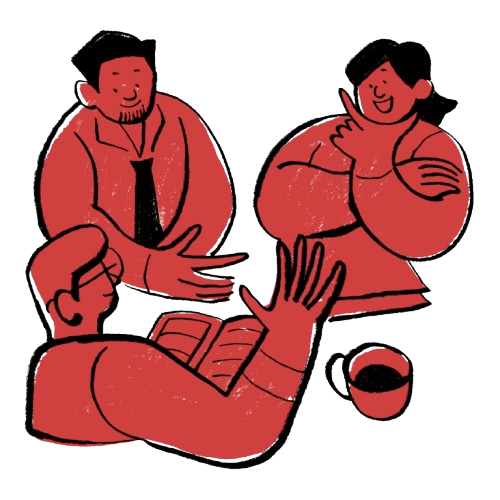
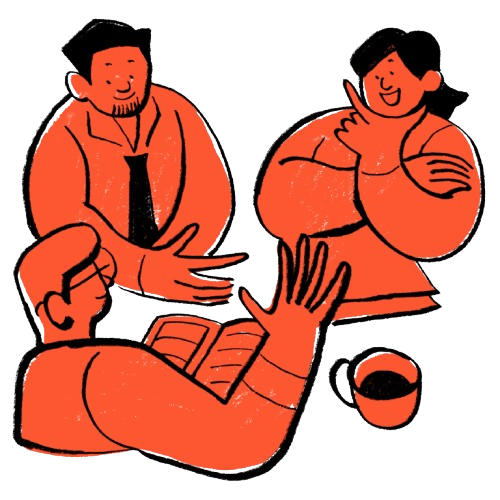
Signup screen redesigned

diff --git a/frontend/src/screens/Signup/Signup.jsx b/frontend/src/screens/Signup/Signup.jsx
@@ -2,6 +2,7 @@ import { useState, useEffect } from 'react';
 import { useDispatch, useSelector } from 'react-redux';
 import { register } from '../../redux/actions/authActions';
 import { useNavigate } from 'react-router-dom';
+import './Signup.css'
 
 
 function SignupPage() {
@@ -38,11 +39,10 @@ function SignupPage() {
 
     return (
         <>
-        <div className='signup-body'>
-            <main style={{flex: 1, display: 'flex', justifyContent: 'center', alignItems: 'center', padding: '2rem'}}>
-                <div style={{maxWidth: '550px', width: '100%', backgroundColor: '#fcd87e', border: '1px solid #e0e0e0', borderRadius: '8px', boxShadow: '0 2px 4px rgba(0, 0, 0, 0.1)', padding: '4rem'}}>
-                    <h2 style={{textAlign: 'center', marginBottom: '2rem', color: '#ce4636', fontSize: '1.8rem', fontFamily: 'Libre Baskerville, serif', fontStyle: 'italic'}}>Create Account</h2>
-                    <form onSubmit={handleSignup} style={{display: 'flex', flexDirection: 'column', gap: '1.5rem'}}>
+        <div className="signup-body">
+                <div className="signup-left">
+                    <h2 className="signup-title">Create Account</h2>
+                    <form onSubmit={handleSignup}>
                         <input 
                             type="text"
                             className="form-control"
@@ -50,7 +50,6 @@ function SignupPage() {
                             value={username}
                             onChange={(e) => setUsername(e.target.value)}
                             required
-                            style={{padding: '0.75rem 1.5rem', border: '2px solid #d1d5db', borderRadius: '50px', boxShadow: '0 2px 4px rgba(0, 0, 0, 0.1)', width: '100%', boxSizing: 'border-box', fontFamily: 'Libre Baskerville, serif', fontStyle: 'italic'}}
                         />
 
                         <input 
@@ -60,10 +59,9 @@ function SignupPage() {
                             value={email}
                             onChange={(e) => setEmail(e.target.value)}
                             required
-                            style={{padding: '0.75rem 1.5rem', border: '2px solid #d1d5db', borderRadius: '50px', boxShadow: '0 2px 4px rgba(0, 0, 0, 0.1)', width: '100%', boxSizing: 'border-box', fontFamily: 'Libre Baskerville, serif', fontStyle: 'italic'}}
                         />
 
-                        <div style={{position: 'relative', width: '100%'}}>
+                        <div>
                             <input 
                                 type={showPassword ? 'text' : 'password'}
                                 className="form-control"
@@ -71,29 +69,18 @@ function SignupPage() {
                                 value={password}
                                 onChange={(e) => setPassword(e.target.value)}
                                 required
-                                style={{padding: '0.75rem 1.5rem', border: '2px solid #d1d5db', borderRadius:'50px', boxShadow: '0 2px 4px rgba(0, 0, 0, 0.1)', paddingRight: '3rem', width: '100%', boxSizing: 'border-box', fontFamily: 'Libre Baskerville, serif', fontStyle: 'italic'}}
                             />
 
                             <button
+                                className="reveal"
                                 type="button"
                                 onClick={() => setShowPassword(!showPassword)}
-                                style={{
-                                    position: 'absolute',
-                                    right: '1rem',
-                                    top: '50%',
-                                    transform: 'translateY(-50%)',
-                                    background: 'none',
-                                    border: 'none',
-                                    cursor: 'pointer',
-                                    fontSize: '1.2rem',
-                                    color: '#6b7280',
-                                }}
                             >
                                 {showPassword ? '👀' : '🔍'}
                             </button>
                         </div>
 
-                        <div style={{position: 'relative', width: '100%'}}>
+                        <div>
                             <input 
                                 type={showConfirmPassword ? 'text' : 'password'}
                                 className="form-control"
@@ -101,69 +88,39 @@ function SignupPage() {
                                 value={confirmPassword}
                                 onChange={(e) => setConfirmPassword(e.target.value)}
                                 required
-                                style={{padding: '0.75rem 1.5rem', border: '2px solid #did5db', borderRadius: '50px', boxShadow: '0 2px 4px rgba(0, 0, 0, 0.1)', paddingRight: '3rem', width: '100%', boxSizing: 'border-box', fontFamily: 'Libre Baskerville, serif', fontStyle: 'italic'}}
                             />
 
                             <button 
+                                className="reveal"
                                 type="button"
                                 onClick={() => setShowConfirmPassword(!showConfirmPassword)}
-                                style={{
-                                    position: "absolute",
-                                    right: '1rem',
-                                    top: '50%',
-                                    transform: 'translateY(-50%)',
-                                    background: 'none',
-                                    border: 'none',
-                                    cursor: 'pointer',
-                                    fontSize: '1.2rem',
-                                    color: '#6b7280'
-                            }}>
+                            >
                                 {showConfirmPassword ? '👀' : '🔍'}
                             </button>
                         </div>
 
-                        <button
-                            type="submit"
-                            className="fw-semibold"
-                            onMouseEnter={() => setIsHovering(true)}
-                            onMouseLeave={() => setIsHovering(false)}
-                            style={{
-                                borderradius: '50px',
-                                padding: '0.75rem 2rem',
-                                marginTop: '1rem',
-                                backgroundColor: isHovering ? '#ae2d1e' : '#ce4636',
-                                boxShadow: '0 2px 4px rgba(0, 0, 0, 0.1)',
-                                transition: 'background-color 0.3s ease',
-                                border: 'none',
-                                color: 'white',
-                                fontSize: '1rem',
-                                fontWeight: '600',
-                                cursor: 'pointer',
-                                width: '100%',
-                                boxSizing: 'border-box',
-                                fontFamily: 'Libre Baskerville, serif',
-                                borderRadius: '50px',
-                            }}>
-                            SIGN UP
-                        </button>
-
-                        <div style={{textAlign: 'center', marginTop: '1rem'}}>
-                            <a href="/login" style={{textDecoration: 'none'}}><p style={{marginBottom: '1rem', color: '#ce4636', fontSize: '0.95rem'}}>Already have an account?</p></a>
-                            
-                            <a href="/login">
+                        <div className="button-container">
                             <button
-                                type="button"
-                                onClick={() => window.location.hash = '#login'}
-                                style={{
-                                    color: 'white', textDecoration: 'none', display: 'inline-block', padding: '0.75rem 2 rem', backgroundColor: '#ce4636', borderRadius: '50px', boxShadow: '0 2px 4px rgba(0, 0, 0, 0.1)', transition: 'background-color 0.3s ease', minWidth: '150px', border: 'none', cursor: 'pointer', fontSize: '1rem', fontWeight: '600', fontFamily: 'Libre Baskerville, serif', height: '5vh'
-                                }} onMouseEnter={(e) => e.target.style.backgroundColor = '#ae2d1e'} onMouseLeave={(e) => e.target.style.backgroundColor = '#ce4636'}>
-                                    LOG IN
+                                type="submit"
+                                className="signup-button"
+                                onMouseEnter={() => setIsHovering(true)}
+                                onMouseLeave={() => setIsHovering(false)}
+                            >
+                                SIGN UP
                             </button>
-                            </a>
+                        </div>
+
+                        <div className="login">
+                            <p className="already">Already have an account?</p>
+                            
+                            <a href="/login" className="login-button"><p>Log In</p></a>
                         </div>
                     </form>
                 </div>
-            </main>
+
+                <div className="signup-right">
+                    <img src="./images/bacon_asset1.png" />
+                </div>
         </div>
         </>
     );

diff --git a/frontend/src/screens/Signup/Signup.css b/frontend/src/screens/Signup/Signup.css
@@ -1,56 +1,110 @@
-@import url('https://fonts.googleapis.com/css2?family=Lato:ital,wght@0,100;0,300;0,400;0,700;0,900;1,100;1,300;1,400;1,700;1,900&family=Libre+Baskerville:ital,wght@0,400..700;1,400..700&display=swap');
+@import url('https://fonts.googleapis.com/css2?family=Changa+One:ital@0;1&family=Cormorant+Garamond:ital,wght@0,300..700;1,300..700&family=Quicksand:wght@300..700&display=swap');
 
-.header-container {
-    background-color: #ce4636;
-    padding: 2vh;
-    margin-bottom: 5vh;
-}
+/* 
+Beige: #faf4e4 
+Black: #121212
+Gray: #a6a39d
+Pink: #f5b8da
+Accent-Pink: #e09cc3
+Yellow: #ffda6f
+Accent-Yellow: #cca733
+Orange: #fd5732
+Accent-Orange: #F76E4F
+*/
 
 .signup-body {
-    display: 'flex';
-    flex-direction: 'column';
-    height: '100vh';
-    background-color: '#f8f0dd';
-    margin: 0;
-    padding: 0;
+    border: 2px solid #121212;
+    border-radius: 25px;
+    padding: 30px 30px;
+    margin: 2rem 4rem;
+    display: grid;
+    grid-template-columns: 1fr 1fr;
+    height: 70vh;
+    gap: 10px;
 }
 
-.signup-main {
-    flex: 1;
-    display: 'flex';
-    justify-content: 'center';
-    align-items: 'center';
-    padding: '2rem';
+.signup-left {
+    display: flex;
+    flex-direction: column;
+    justify-content: center;
+    align-content: center;
 }
 
-.form-main {
-    max-width: '550px';
-    width: '100%';
-    background-color: 'white';
-    border: '1px solid #e0e0e0';
-    border-radius: '8px';
-    box-shadow: '0 2px 4px rgba(0, 0, 0, 0.1)';
-    padding: '4rem';
-}
-
-.form-title {
-    text-align: 'center';
-    margin-bottom: '2rem';
-    color: '#1f2937';
-    font-size: '1.8rem';
-}
-
-.form-secondary {
-    display: 'flex';
-    flex-direction: 'column';
-    gap: '1.5rem';
+.signup-title {
+    text-align: center;
+    font-family: Quicksand, sans-serif;
+    font-size: 2rem;
 }
 
 .form-control {
-    padding: '0.75rem 1.5rem';
-    border: '2px solid #d1d5db';
-    border-radius: '50px';
-    box-shadow: '0 2px 4px rgba(0, 0, 0, 0.1)';
-    width: '100%';
-    box-sizing: 'border-box';
+    width: 90%;
+    padding: 8px 20px;
+    border: 2px solid #121212;
+    margin-top: 10px;
+    border-radius: 65px;
+    font-family: Quicksand, sans-serif;
+}
+
+.reveal {
+    padding: 5px;
+    border: none;
+    background-color: transparent;
+}
+
+.button-container {
+    display: flex;
+    justify-content: center;
+    align-content: center;
+}
+
+.signup-button {
+    margin: 20px;
+    background-color: #121212;
+    color: white;
+    padding: 8px 20px;
+    border-radius: 65px;
+    font-weight: 500;
+    font-family: Quicksand, sans-serif;
+    border: none;
+    transition: background-color 0.5s ease, transform 0.5s ease;
+}
+
+.signup-button:hover {
+    margin: 20px;
+    background-color: #fd5732;
+    color: #121212;
+    padding: 8px 20px;
+    border-radius: 65px;
+    font-weight: 500;
+    font-family: Quicksand, sans-serif; 
+    border: none;
+}
+
+.signup-right {
+    border-left: 2px dashed #121212;
+    display: flex;
+    align-content: center;
+    justify-content: center;
+}
+
+.login {
+    display: flex;
+    justify-content: center;
+    align-content: center;
+    font-family: Quicksand, sans-serif;
+    text-decoration: none;
+}
+
+.already {
+    font-weight: 500;
+    font-size: 1rem;
+}
+
+.login-button {
+    background-color: transparent;
+    border: none;
+    margin-left: 10px;
+    text-decoration: none;
+    color: #fd5732;
+    font-weight: 700;
 }

diff --git a/frontend/src/screens/Landing/Landing.css b/frontend/src/screens/Landing/Landing.css
@@ -109,9 +109,9 @@ body {
 }
 
 .item-description {
-  font-family: Cormorant Garamond, serif;
+  font-family: Quicksand, sans-serif;
   color:#0e0f0d;
-  font-size: 25px;
+  font-size: 20px;
   font-weight: 500;
   margin: 1rem auto;
   max-width: 90%;
@@ -132,9 +132,9 @@ body {
 }
 
 .row-description {
-  font-family: Cormorant Garamond, serif;
+  font-family: Quicksand, sans-serif;
   color:#0e0f0d;
-  font-size: 25px;
+  font-size: 20px;
   font-weight: 500;
 }
 

diff --git a/frontend/src/components/Header/Header.css b/frontend/src/components/Header/Header.css
@@ -65,4 +65,15 @@ Orange: #fd5732
     border: 2px solid #121212;
     padding: 8px 20px;
     border-radius: 80px;
+    transition: background-color 0.5s ease, transform 0.5s ease;
+}
+
+.log-link:hover {
+    font-family: Quicksand, sans-serif;
+    background-color: #fd5732;
+    color: #121212;
+    border: 2px solid #fd5732;
+    padding: 8px 20px;
+    border-radius: 80px;
+    transition: background-color 0.5s ease, transform 0.5s ease;   
 }

diff --git a/frontend/src/components/LandCard/LandCard.css b/frontend/src/components/LandCard/LandCard.css
@@ -13,8 +13,8 @@ white: #f0f0ed */
     text-align: center;
     overflow: hidden;
     gap: 10px;
-    font-family: Cormorant Garamond, serif;
-    font-weight: 700;
+    font-family: Quicksand, sans-serif;
+    font-weight: 500;
     font-size: 20px;
     transform: translateZ(0);
     transition: transform 0.25s ease-out;

diff --git a/frontend/src/App.js b/frontend/src/App.js
@@ -61,7 +61,6 @@ export default function App() {
             <Route path='/dashboard' element={<PrivateRoute><Dashboard /></PrivateRoute>} />
           </Routes>
         </main>
-        <Footer />
       </Router>
     );
   }
